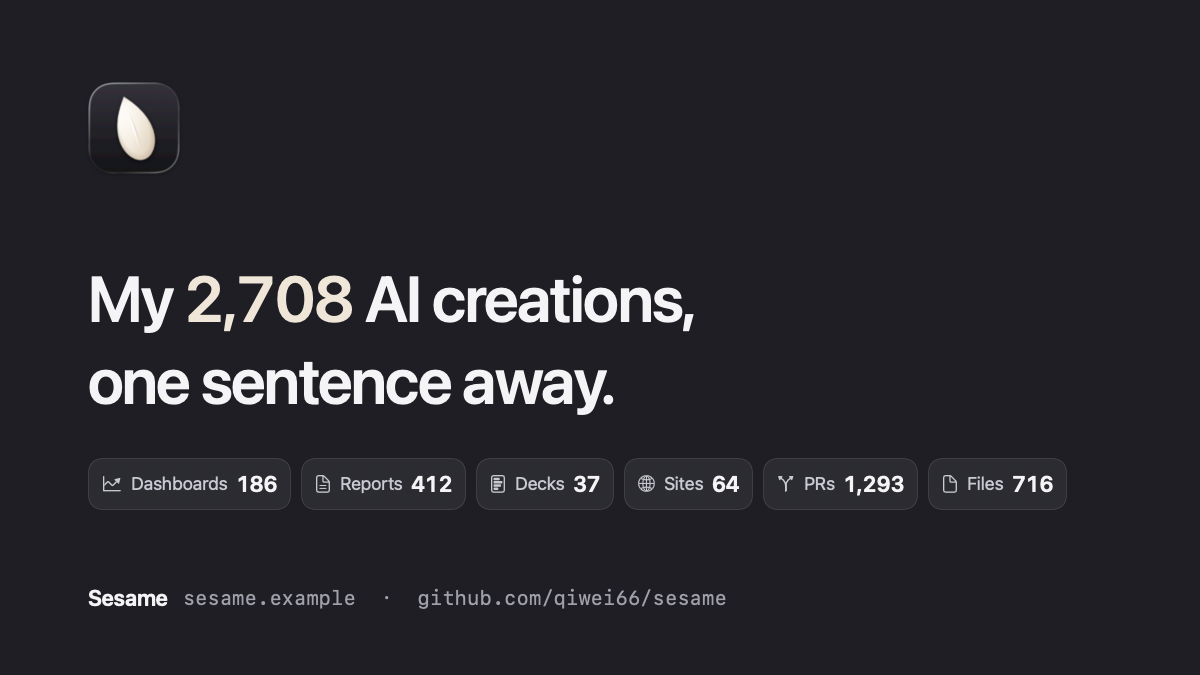
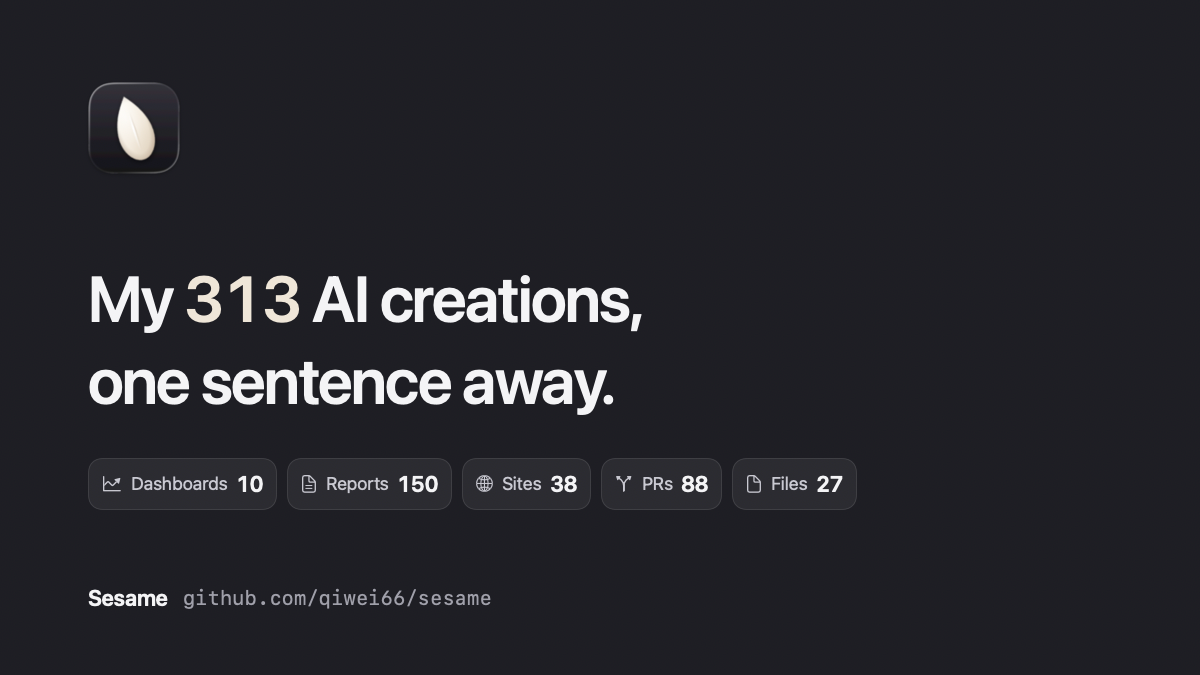
share card: 313 sample, drop placeholder site from footer

Changed region(s): [[0.2158, 0.6844, 0.8942, 0.7467], [0.1542, 0.4044, 0.5858, 0.4978], [0.1542, 0.8711, 0.6167, 0.9022]]

diff --git a/macos/Sources/SesameCore/PanelModel.swift b/macos/Sources/SesameCore/PanelModel.swift
@@ -159,11 +159,10 @@ public enum PanelPhase: Equatable, Sendable {
 }
 
 /// The "share my number" card (1200 × 675, the size X / Twitter shows uncropped). Only counts go on it: no titles,
-/// paths or names. The addresses are placeholders until the project has its real site and repository.
+/// paths or names. The footer points to the repository, the only public address.
 public enum ShareCard {
     public static let width = 1200
     public static let height = 675
-    public static let site = "sesame.example"
     public static let repo = "github.com/qiwei66/sesame"
 
     /// Groups printed on the card: the first-run groups that are not empty, in the panel's order

diff --git a/design/prototype.html b/design/prototype.html
@@ -590,7 +590,7 @@ kbd.down { background: var(--sel); box-shadow: inset 0 1px 1.5px rgba(0,0,0,.18)
     <div class="logo" id="shareLogo"></div>
     <div class="h">我的 <b>313</b> 个 AI 产物，<br>动动嘴就调出来。</div>
     <div class="g" id="shareGroups"></div>
-    <div class="f"><b>Sesame</b><span class="u">sesame.example  ·  github.com/qiwei66/sesame</span></div>
+    <div class="f"><b>Sesame</b><span class="u">github.com/qiwei66/sesame</span></div>
   </figure>
   <section class="settings" id="settings" aria-label="Sesame 设置">
     <div class="titlebar"><span class="lights"><i></i><i></i><i></i></span><span class="title">通用</span></div>

diff --git a/macos/Sources/Sesame/ShareCardView.swift b/macos/Sources/Sesame/ShareCardView.swift
@@ -47,7 +47,7 @@ struct ShareCardView: View {
             Spacer(minLength: 0)
             HStack(spacing: 14) {
                 Text("Sesame").font(.system(size: 22, weight: .semibold)).foregroundColor(ink)
-                Text("\(ShareCard.site)  ·  \(ShareCard.repo)").font(.system(size: 20, design: .monospaced)).foregroundColor(ink3)
+                Text(ShareCard.repo).font(.system(size: 20, design: .monospaced)).foregroundColor(ink3)
             }
         }
         .padding(EdgeInsets(top: 72, leading: 88, bottom: 64, trailing: 88))
